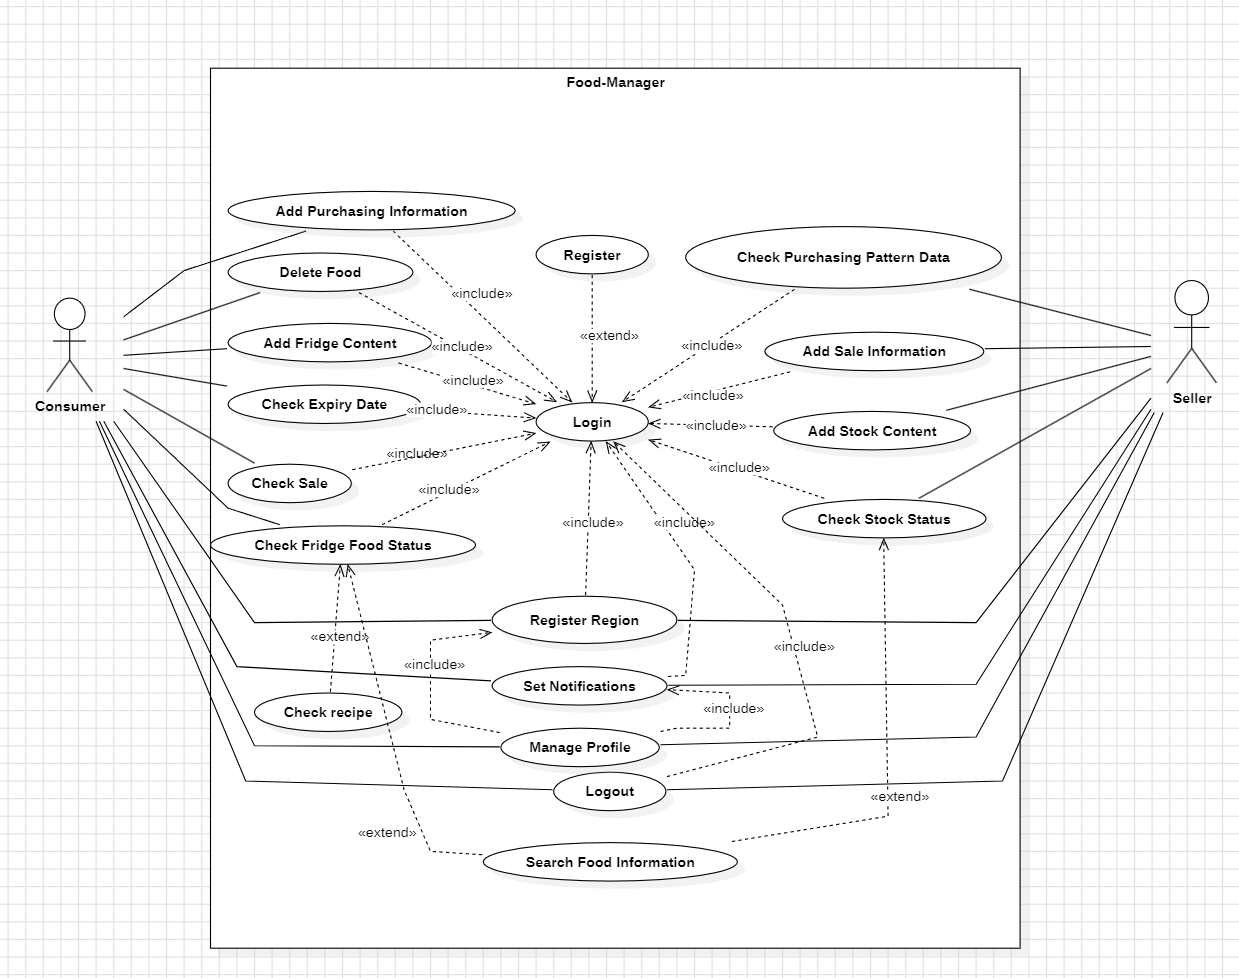
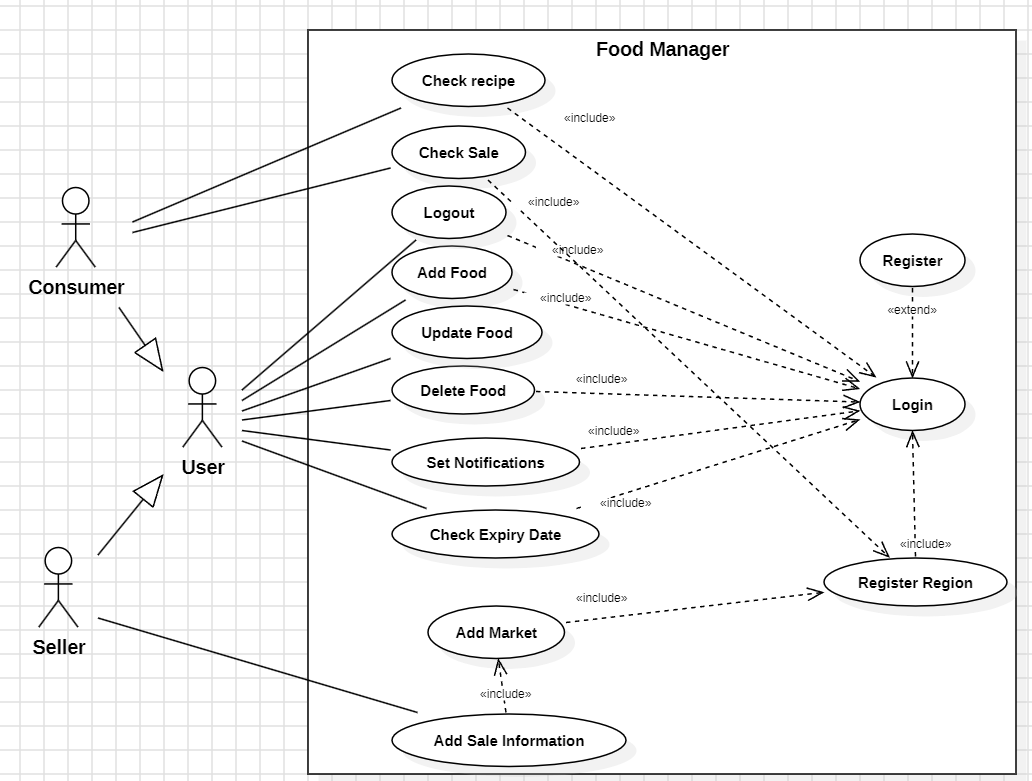
2~3 analysis insert information

diff --git a/Analysis_22211994_남재민.md b/Analysis_22211994_남재민.md
@@ -12,6 +12,7 @@
 <br>
 <h2 style="border-bottom: none;">
 [ Revision history ]
+
 | Revision date | Version # | Description | Author |
 | :---: | :---: | :---: | :---: |
 | 2026-05-05 | 1.0.0 | Initial Concept |Nam Jae-min |
@@ -22,17 +23,16 @@
 = Contents =
 <pre>
 <span style="font-size: 14pt;">
-1. Introduction ................................................................
+1. Introduction ...........................................................
 <br>
-2. Use case analysis ..........................................................
+2. Use case analysis ......................................................
 <br>
-3. Domain analysis ...................................................................
+3. Domain analysis ........................................................
 <br>
-4. User Interface prototype ............................................................
+4. User Interface prototype ...............................................
 <br>
-5. Glossary ...............................................................
-<br>
-6. References ........................................................................
+5. Glossary ............................................................... <br>
+6. References ................................................................
 <br>
 </span>
 </pre>
